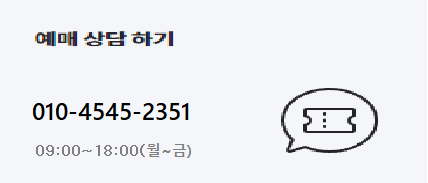
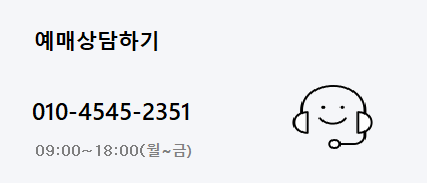
25

Changed region(s): [[0.6379, 0.4645, 0.8808, 0.847], [0.0607, 0.1639, 0.4252, 0.2732]]

diff --git a/4.1세미[이눔식기(주)]/조대현/customerListView.html b/4.1세미[이눔식기(주)]/조대현/customerListView.html
@@ -246,7 +246,7 @@
         /* 바디 시작 */
                /* 바디 메인 */
                .원하는데로_바꾸세요{
-            border: 1px solid red;
+            border: 1px solid lightgray;
             background-color: lightgray;
             height: 900px;
             width: 100%;
@@ -254,35 +254,37 @@
 
         /* body 고객센터*/
         .servicecenter{
-            border: 1px solid blue;
             background-color:black;
             height: 100px;
-            width: 1000px;
+            width: 1050px;
             margin:auto;
+            margin-right: 23.8%;
             margin-top:50px;            
         }
-        .servicecenter>h2{
+        .servicecenter>h1{
             color:white;
             line-height:100px;
         } 
 
         /*body leftmenu*/
         .원하는데로_바꾸세요 .leftmenu{
-            border: 1px solid red;
-            width:100px;
-            height: 200px;
-            margin-left: 23.8%;
+            background-color: white;
+            font-size: 19px;
+            text-align:center;
+            line-height: 100px;
+            width: 160px;
+            height: 300px;
+            margin-left: 21%;
             margin-top: 5px;
             float:left;
         }
         .원하는데로_바꾸세요 .leftmenu div{
-            width:100px;
-            height: 33%;
-            border: 1px solid black;
+            width:100%;
+            height: 33.3%;
+            border: 1px solid gray;
         }
         /*바디의 오른쪽 메뉴*/
         .원하는데로_바꾸세요 .rightmenu{
-            border: 1px solid orange;
             width: 880px;
             height:400px;
             margin-right: 23.8%;
@@ -290,7 +292,6 @@
             float:right;
         }
         #bodyright{
-            border:1px solid red;
             width: 100%;
             height:100%;
             /*width:50%;
@@ -301,7 +302,6 @@
         /* body 오른쪽 메뉴*/
         #bodyright>#son{
             background-color: white;
-            border:1px solid green;
             border-radius: 20px;
             width:48%;
             height:46%;
@@ -321,8 +321,17 @@
             height: 100%;
             border-radius: 20px;
         }
+        #noticelogomain{
+            width: 100%;
+            height: 100%;
+            border-radius: 20px;
+        }
+        #questionlogomain{
+            width: 100%;
+            height: 100%;
+            border-radius: 20px;
+        }
         .bottomfunction{
-            border: 1px solid blue;
             width:880px;
             height:200px;
             margin-right:23.8%;
@@ -331,12 +340,14 @@
         }
         /*body qna창*/
         #bson{
-            border: 1px solid gold;
+            border: 1px solid white;
+            border-radius: 10px;
             width: 98%;
             height:90%;
             float:left;
             margin:1%;
             cursor:pointer;
+            font-size: 16px;
         }
         #bson>p{
             box-sizing: border-box;
@@ -349,7 +360,11 @@
         #bson>#qnacontent{
             font-size: 15px;
         }
-
+        #bson>div{
+            border-bottom-style: solid;
+            border-color: black;
+            border-width: 1px;
+        }
 
 
 
@@ -547,7 +562,7 @@
 
 <div class="원하는데로_바꾸세요">
     <div class="servicecenter">
-        <h2 align="center">고객센터</h2>
+        <h1 align="center">고객센터</h1>
     </div>
 
     <div class="servicefunction">
@@ -566,8 +581,12 @@
                 <div id="son">
                     <a href="#" class="reservelogo"><img src="../resorces/이미지자료/customer/reserve.png" id="reservelogomain" alt=""></a>
                 </div>
-                <div id="son">예매상담하기</div>
-                <div id="son">문의하기</div>
+                <div id="son">
+                    <a href="#" class="noticelog"><img src="../resorces/이미지자료/customer/notice.png" id="noticelogomain" alt=""></a>
+                </div>
+                <div id="son">
+                    <a href="#" class="questionlog"><img src="../resorces/이미지자료/customer/question.png" id="questionlogomain" alt=""></a>
+                </div>
             </div>
         </div>
     </div>
@@ -576,17 +595,18 @@
     <div class="bottomfunction">
         <div id="bson">
             <h2 align="center">자주묻는 질문</h2>
-            <div>비밀</div>
+            <div>비밀번호를 변경하고 싶어요</div>
             <p>A. 기다려</p>
-            <div>비밀</div>
+            <div>내 정보를 변경하고 싶어요</div>
             <p>A. 너도 기다려</p>
-            <div>비밀</div>
+            <div>할인이 되는 신용카드는?</div>
             <p>A. 너도기다리자</p>
         </div>
         
     </div>
     <script>
         $(function(){
+            $(".leftmenu").hover().css("cursor","pointer");
             $("#bson>div").click(function(){
                 // $(this) : 클릭이벤트가 발생한 div 요소
                 // 우리는 그 요소의 뒤의 요소를 선택해야함.(같은 레벨에 있음)

diff --git a/4.1세미[이눔식기(주)]/조대현/qnaList.html b/4.1세미[이눔식기(주)]/조대현/qnaList.html
@@ -243,7 +243,7 @@
         /* 헤더 끝 */
 
 
-        /* 바디 시작 */
+               /* 바디 시작 */
                /* 바디 메인 */
                .원하는데로_바꾸세요{
             border: 1px solid red;
@@ -254,14 +254,14 @@
 
         /* body 고객센터*/
         .servicecenter{
-            border: 1px solid blue;
             background-color:black;
             height: 100px;
-            width: 1000px;
+            width: 1050px;
             margin:auto;
+            margin-right: 23.8%;
             margin-top:50px;            
         }
-        .servicecenter>h2{
+        .servicecenter>h1{
             color:white;
             line-height:100px;
         } 
@@ -269,16 +269,20 @@
         /*body leftmenu*/
         .원하는데로_바꾸세요 .leftmenu{
             border: 1px solid red;
-            width:100px;
-            height: 200px;
-            margin-left: 23.8%;
+            background-color: white;
+            font-size: 19px;
+            text-align:center;
+            line-height: 100px;
+            width: 160px;
+            height: 300px;
+            margin-left: 21%;
             margin-top: 5px;
             float:left;
         }
         .원하는데로_바꾸세요 .leftmenu div{
-            width:100px;
-            height: 33%;
-            border: 1px solid black;
+            width:100%;
+            height: 33.3%;
+            border: 1px solid gray;
         }
         /*qna 메뉴창 클릭시 css값*/
         #qnamenu>p{
@@ -503,7 +507,7 @@
 
 <div class="원하는데로_바꾸세요">
     <div class="servicecenter">
-        <h2 align="center">고객센터</h2>
+        <h1 align="center">고객센터</h1>
     </div>
 
     <div class="servicefunction">

diff --git a/4.1세미[이눔식기(주)]/조대현/noticeList.html b/4.1세미[이눔식기(주)]/조대현/noticeList.html
@@ -254,11 +254,12 @@
 
         /* body 고객센터*/
         .servicecenter{
-            border: 1px solid blue;
+            
             background-color:black;
             height: 100px;
-            width: 1000px;
+            width: 1050px;
             margin:auto;
+            margin-right: 23.8%;
             margin-top:50px;            
         }
         .servicecenter>h1{
@@ -269,18 +270,22 @@
         /*body leftmenu*/
         .원하는데로_바꾸세요 .leftmenu{
             border: 1px solid red;
-            width:100px;
-            height: 200px;
-            margin-left: 23.8%;
+            background-color: white;
+            font-size: 19px;
+            text-align:center;
+            line-height: 100px;
+            width: 160px;
+            height: 300px;
+            margin-left: 21%;
             margin-top: 5px;
             float:left;
         }
-        .원하는데로_바꾸세요 .leftmenu div{
-            width:100px;
-            height: 33%;
-            border: 1px solid black;
-        }
 
+        .원하는데로_바꾸세요 .leftmenu div{
+            width:100%;
+            height: 33.3%;
+            border: 1px solid gray;
+        }
         #announce>p{
             display: none;
             float:right;
